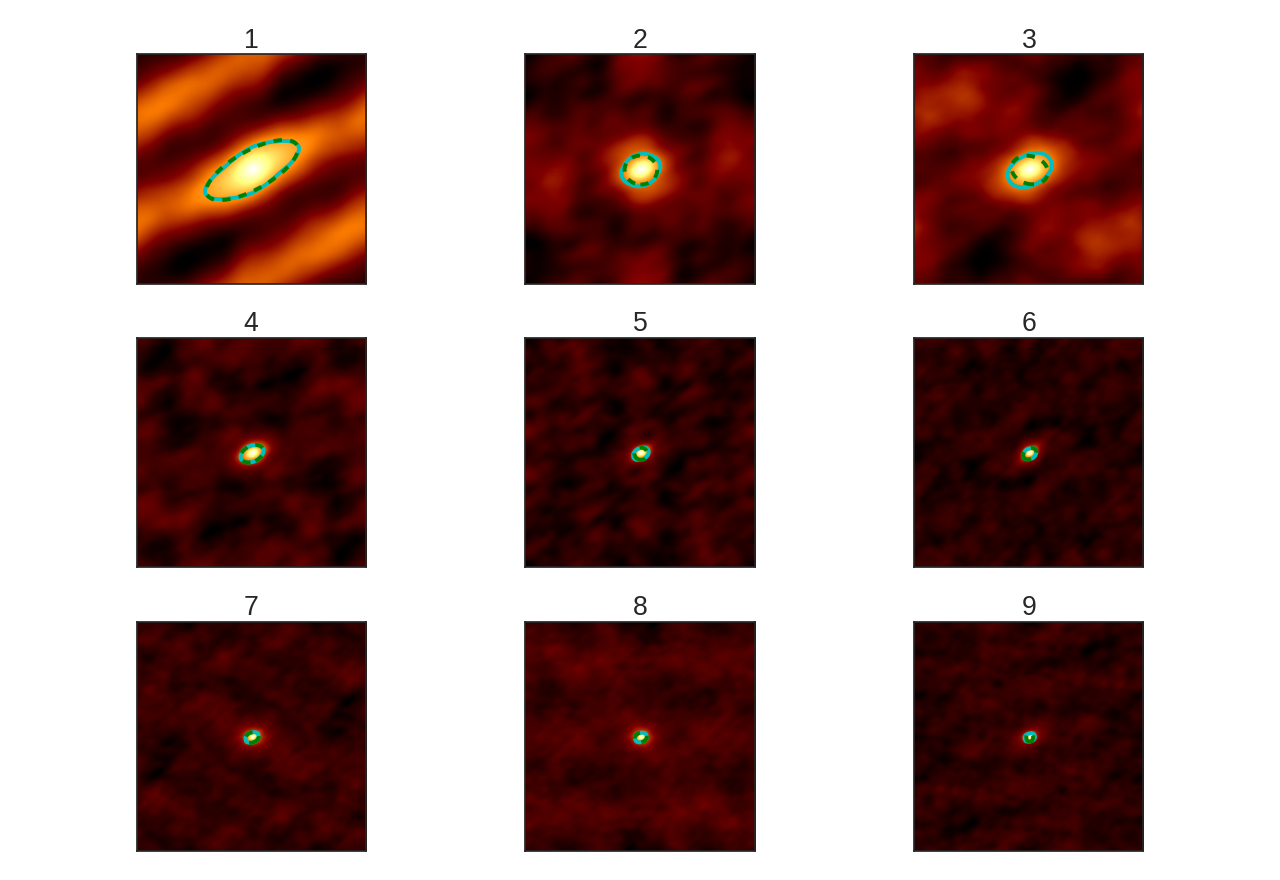
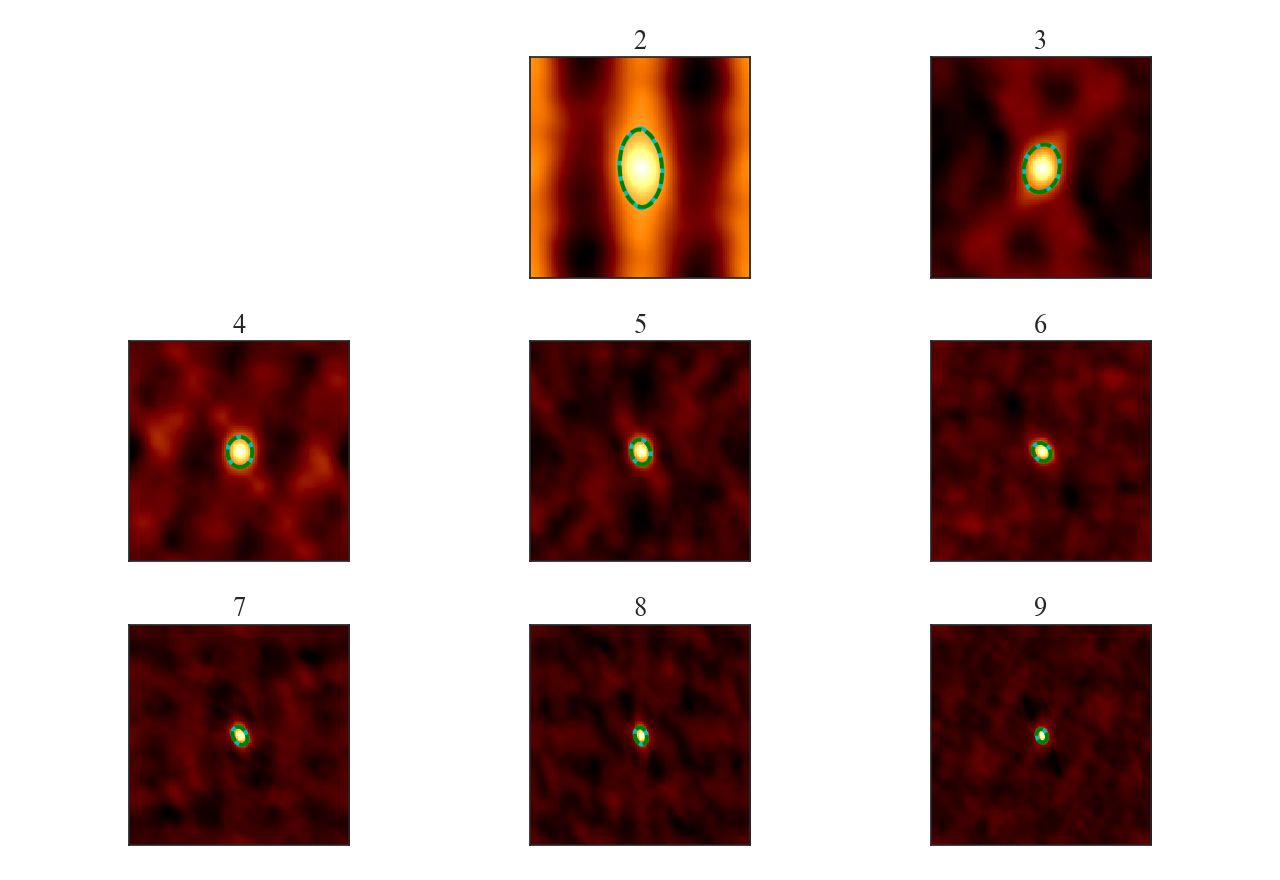
Updated PCA tutorial

diff --git a/docs/tutorials/statistics/pca_example.rst b/docs/tutorials/statistics/pca_example.rst
@@ -22,67 +22,115 @@ We need to import the PCA code, along with a few other common packages:
     >>> from turbustat.statistics import PCA
     >>> from astropy.io import fits
     >>> import astropy.units as u
+    >>> import matplotlib.pyplot as plt
 
 And we load in the data:
 
-    >>> cube = fits.open("Design4_21_0_0_flatrho_0021_13co.fits")[0]  # doctest: +SKIP
+    >>> cube = fits.open("Design4_flatrho_0021_00_radmc.fits")[0]  # doctest: +SKIP
 
 The `spectral-cube <http://spectral-cube.readthedocs.io/en/latest/>`_ package can also be used to load in data.
 
     >>> from spectral_cube import SpectralCube
-    >>> cube = SpectralCube.read("Design4_21_0_0_flatrho_0021_13co.fits")  # doctest: +SKIP
+    >>> cube = SpectralCube.read("Design4_flatrho_0021_00_radmc.fits")  # doctest: +SKIP
 
-The `~turbustat.statistics.PCA` class is first initialized, and the distance to the region (if desired) can be given along with an appropriate distance unit:
+The `~turbustat.statistics.PCA` class is first initialized, and the distance to the region (if desired) can be given:
 
     >>> pca = PCA(cube, distance=250. * u.pc)  # doctest: +SKIP
 
-If the distance is given, spatial widths are converted to the physical unit given in the distance (so parsecs here).
+If the distance is given, you will have the option to convert spatial widths to physical units. *Note that we're using simulated data and the distance of 250 pc has no special meaning.*
 
-The simplest way to run the entire process is through the `~turbustat.statistics.PCA.run` command:
+The simplest way to run the entire process is using the `~turbustat.statistics.PCA.run` command:
 
-    >>> pca.run(verbose=True, min_eigval=0.005)  # doctest: +SKIP
-    Proportion of Variance kept: 0.973266632968
-    Index: 0.50 (0.48, 0.53)
-    Gamma: 0.31 (0.27, 0.36)
-    Sonic length: 7.083e-02 (5.910e-02, 8.256e-02) pc at 10.0 K
+    >>> pca.run(verbose=True, min_eigval=1e-4, spatial_output_unit=u.pc, spectral_output_unit=u.m / u.s,
+                brunt_beamcorrect=False)  # doctest: +SKIP
+    Proportion of Variance kept: 0.999693451344
+    Index: 0.64 (0.62, 0.66)
+    Gamma: 0.55 (0.51, 0.58)
+    Sonic length: 1.446e-01 (1.358e-01, 1.534e-01) pc at 10.0 K
 
 .. image:: images/pca_design4_default.png
 
-This will use the default settings, and will show print a summary of the results with a plot of the covariance matrix (top left), the variance described by the principal components (bottom left) and the size-line width relation (right). This routine combines 4 steps, which we break down below.
+Note that we have specified the output units for the both the spectral and spatial units. By default, these would be kept in pixel units.
+The key properties are shown when `verbose=True`: a summary of the results with a plot of the covariance matrix (top left), the variance described by the principal components (bottom left) and the size-line width relation (right). The proportion of variance is the variance contained in the N eigenvalues kept. In this case, we consider all eigenvalues with values above 1e-4 to be important. `index` is the slope of the size-line width relation, and `gamma` is the the slope with a correction factor applied (see `~turbustat.statistics.PCA.gamma`). The sonic length is derived from the intercept of the size-line width relation using a default temperature of 10 K (see below on how to change this).
+
+Since this data is simulated, this example does not account for a finite beam size. If it did, however, we would want to deconvolve the spatial widths with the beam. To see this effect, let us assume these data have a 20" circular beam:
+
+    >>> pca.run(verbose=True, min_eigval=1e-4, spatial_output_unit=u.pc, spectral_output_unit=u.m / u.s,
+                brunt_beamcorrect=True, beam_fwhm=20 * u.arcsec)  # doctest: +SKIP
+    Proportion of Variance kept: 0.999693451344
+    Index: 0.56 (0.53, 0.58)
+    Gamma: 0.40 (0.36, 0.44)
+    Sonic length: 9.161e-02 (8.171e-02, 1.015e-01) pc at 10.0 K
+
+.. image:: images/pca_design4_beamcorr.png
+
+Since the correction is not linear, the slope changes with the beam correction. If the header of the data has the beam information defined, it will be automatically read in and `beam_fwhm` will not have to be given.
+
+Both of the PCA runs above do *not* subtract the mean of the data before creating the covariance matrix. Technically, this is not how PCA is defined (see Overview above) and the decomposition is not performed on a true covariance matrix. The justification used in :ref:`Brunt, C. & Heyer, M. 2002a <ref-brunt_heyer2002_i>` and :ref:`Brunt, C. & Heyer, M. 2002b <ref-brunt_heyer2002_ii>` is that the mean has a physical meaning in this case: it's the largest spatial scale across the map. If we *do* subtract the mean of, how does this affect the index?
+
+    >>> pca.run(verbose=True, min_eigval=1e-4, spatial_output_unit=u.pc, spectral_output_unit=u.m / u.s,
+                brunt_beamcorrect=True, beam_fwhm=20 * u.arcsec, mean_sub=True)  # doctest: +SKIP
+    Proportion of Variance kept: 0.999808532503
+    Index: 0.76 (0.71, 0.81)
+    Gamma: 0.68 (0.63, 0.73)
+    Sonic length: 9.121e-02 (8.437e-02, 9.805e-02) pc at 10.0 K
+
+.. image:: images/pca_design4_beamcorr.png
+
+The plot shows how the structure of the covariance matrix has changed. There remains a central peak, though it is smaller, and the positive structure around it is more elongated. The bar plot shows that the relative values of the eigenvalues have changed significantly; this intuitively makes sense as the covariance structure was changed. The index measured is significantly higher than the `0.56` measured above. If we compare the points on the size-line width relation, we see that the steeper relation results from the spectral width remaining the same as in the the non-mean subtracted case, while the spatial size is decreased.
+
+The default setting is to *not* subtract the mean in order to best reproduce the established Brunt & Heyer formalism. This comparison is included to demonstrate its effect and to highlight that, in not subtracting the mean, some of the assumptions used in PCA are violated. See the `PCA Wikipedia <https://en.wikipedia.org/wiki/Principal_component_analysis>`_ page for more information.
+
+The `~turbustat.statistics.PCA.run` command has several steps hidden within it. To demonstrate the whole process, the individual steps are broken down below. There are 4 major steps: decomposition, spatial fitting, spectral fitting, and fitting of the size-line width relation.
 
 First, the eigenvalue decomposition is performed using `~turbustat.statistics.PCA.compute_pca`:
 
-    >>> pca.compute_pca(mean_sub=False, n_eigs='auto', min_eigval=0.005, eigen_cut_method='value')  # doctest: +SKIP
+    >>> pca.compute_pca(mean_sub=False, n_eigs='auto', min_eigval=1e-4, eigen_cut_method='value')  # doctest: +SKIP
     >>> pca.n_eigs  # doctest: +SKIP
-    24
+    10
 
-`mean_sub` controls whether to subtract the channel means when calculating the covariance matrix. Formally, this is implied when calculating any covariance matrix, but is not done in the Brunt & Heyer works. `n_eigs` sets the number of important principal components (which will be used to fit the size-line width relation). This can be an integer, or the code will determine the number of important components based off of a threshold given in `min_eigval`. When `eigen_cut_method='value'`, `min_eigval` is the smallest eigenvalue to consider important. Since the variance is related to the level of variance due to noise in the data, it is practical to set this to a few times the noise variance. When `eigen_cut_method='proportion'`, `min_eigval` now corresponds to the total proportion of variance that is considered important:
+`mean_sub` controls whether to subtract the channel means when calculating the covariance matrix. Formally, this is implied when calculating any covariance matrix, but is not done in the Brunt & Heyer works (see above). `n_eigs` sets the number of important principal components (which will be used to fit the size-line width relation). This can be an integer, or the code will determine the number of important components based off of a threshold given in `min_eigval`. When `eigen_cut_method='value'`, `min_eigval` is the smallest eigenvalue to consider important. Since the variance is related to the level of variance due to noise in the data, it is practical to set this to a few times the noise variance. When `eigen_cut_method='proportion'`, `min_eigval` now corresponds to the total proportion of variance that is considered important:
 
     >>> pca.compute_pca(mean_sub=False, n_eigs='auto', min_eigval=0.99, eigen_cut_method='proportion')  # doctest: +SKIP
     >>> pca.n_eigs  # doctest: +SKIP
-    30
+    4
 
 This will keep the number of components that describe 99% of the variance in the data. The percentage of variance described by a principal component is its eigenvalue divided by the sum of all eigenvalues (the total variance in the data). All other components beyond these levels are due to irreducible noise. These noise components can be thought of as an N-dimensional sphere, where it becomes impossible to diminish the remaining variance as there is no preferred direction.
 
-Second, we calculate the spatial size scales from the autocorrelation of the eigenimages:
+Second, we calculate the spatial size scales from the autocorrelation of the eigenimages (reverting back to the PCs from `eigen_cut_method='value'`):
 
-    >>> pca.find_spatial_widths(method='contour', beam_fwhm=None, brunt_beamcorrect=True)  # doctest: +SKIP
+    >>> pca.compute_pca(mean_sub=False, n_eigs='auto', min_eigval=1e-4, eigen_cut_method='value')  # doctest: +SKIP
+    >>> pca.find_spatial_widths(method='contour', beam_fwhm=20 * u.arcsec, brunt_beamcorrect=True, output_unit=u.pc, diagnosticplots=True)  # doctest: +SKIP
 
 .. image:: images/pca_autocorrimgs_contourfit_Design4.png
 
-This will find the spatial widths by fitting an ellipse to the 1/e contour about the peak in the autocorrelation image, following the fitting technique described by Brunt & Heyer. The first 9 autocorrelation images are shown in the above image, where the cyan contours are the true 1/e contour, and the green dashed line is the elliptical fit.
+This will find the spatial widths by fitting an ellipse to the 1/e contour about the peak in the autocorrelation image, following the fitting technique described by Brunt & Heyer. The first 9 autocorrelation images are shown in the above image, where the cyan contours are the true 1/e contour, and the green dashed line is the elliptical fit. Note that the first autocorrelation image is not shown. This is because the fitting routine failed; if the 1/e level is not reached in the data, there is no contour to fit to. This means that the largest spatial scale in the data (which critically depends on the mean) is *larger* than the spatial size of the data. For a periodic-box simulation, which this example data is produced from, it is not surprising that this has occurred. **Note: If this issue is encountered in observational data (or anything without periodic boundaries), try padding the data cube in the spatial directions with zeros to simulate a larger map size.**
 
 `method` may also be set to `fit` to fit a 2D Gaussian to the peak, `interpolate` which estimates the 1/e from the peak using a fine grid about the peak region, and `xinterpolate` which first fits a 2D Gaussian to better determine the fine grid to use in interpolation. The default method is `contour`.
 
-When beam correction is applied (`brunt_beamcorrect`), the angular FWHM of the beam is needed. If the `BMAJ` keyword is set in the FITS header in `cube`, this will be read automatically (also if the `radio_beam <https://github.com/radio-astro-tools/radio_beam>`_ package is installed, a few other keywords will be recognized). Otherwise, this must be specified in `beam_fwhm`.
+When beam correction is applied (`brunt_beamcorrect`), the angular FWHM of the beam is needed. This is to deconvolve the spatial widths with the beam size. Note that all spatial scales that cannot be deconvolved from the beam will be set to `NaN`. If the `BMAJ` keyword is set in the FITS header in `cube`, this will be read automatically (also if the `radio_beam <https://github.com/radio-astro-tools/radio_beam>`_ package is installed, a few other keywords will be recognized). Otherwise, this must be specified in `beam_fwhm`. If the data do not have a beam size, `brunt_beamcorrect=False` will need to be specified in `~turbustat.statistics.PCA.find_spatial_widths` and `~turbustat.statistics.PCA.run`.
 
 Third, we find the spectral widths:
 
-    >>> pca.find_spectral_widths(method='walk-down')  # doctest: +SKIP
+    >>> pca.find_spectral_widths(method='walk-down', output_unit=u.m / u.s)  # doctest: +SKIP
+    >>> autocorr_spec = pca.autocorr_spec()  # doctest: +SKIP
+    >>> x = np.fft.rfftfreq(500) * 500 / 2.0  # doctest: +SKIP
+    >>> fig, axes = plt.subplots(3, 3, sharex=True, sharey=True)  # doctest: +SKIP
+    >>> for i, ax in zip(range(9), axes.ravel()):  # doctest: +SKIP
+    >>>     ax.plot(x, autocorr_spec[:251, i])  # doctest: +SKIP
+    >>>     ax.axhline(np.exp(-1), label='exp(-1)', color='r', linestyle='--')  # doctest: +SKIP
+    >>>     ax.axvline(pca.spectral_width[i].value / pca._spectral_size.value,  # doctest: +SKIP
+    >>>                label='Fitted Width',  # doctest: +SKIP
+    >>>                color='g', linestyle='-.')  # doctest: +SKIP
+    >>>     # ax.set_yticks([])  # doctest: +SKIP
+    >>>     ax.set_title("{}".format(i + 1))  # doctest: +SKIP
+    >>>     ax.set_xlim([0, 50])  # doctest: +SKIP
+    >>>     if i == 0:  # doctest: +SKIP
+    >>>         ax.legend()  # doctest: +SKIP
 
 .. image:: images/pca_autocorrspec_Design4.png
 
-The above image shows the first 100 components of the first 9 autocorrelation spectra (the data cube has 500 channels in total, but this is the region of interest). The local minima referred to in the next paragraph is the first minimum point in each of the spectra.
+The above image shows the 50 components of the first 9 autocorrelation spectra (the data cube has 500 channels in total, but this is the region of interest). The local minima referred to in the next paragraph is the first minimum point in each of the spectra.
 
 There are three methods available to estimate spectral widths of the autocorrelation spectra. `walk-down` starts from the peak and continues until the 1/e level is reached. The width is estimated by averaging the points before and after this level is reached. This is the method used by Brunt & Heyer. Otherwise, `method` may be set to `fit`, which fits a Gaussian to the data before the fits local minima occurs, and `interpolate`, which does the same, but through interpolating onto a finer grid. As shown in the above figure, the number of oscillations in the autocorrelation spectrum increases with the Nth principal component. The width of interest is determined from the first peak to the first minima.
 
@@ -105,12 +153,12 @@ And to run the MCMC:
 
 Additional arguments for setting the chain properties can be passed as well. See documentation for `~turbustat.statistics.fitting_utils.bayes_linear`. The verbose mode shows the fit results along with the data points.
 
-The interesting outputs from this analysis are esitmates of the slopes of the size-line width relation (:math:`\gamma`) and the sonic length:
+The interesting outputs from this analysis are estimates of the slopes of the size-line width relation (:math:`\gamma`) and the sonic length:
 
     >>> pca.gamma  # doctest: +SKIP
-    0.322
+    0.426
     >>> pca.sonic_length(T_k=10 * u.K, mu=1.36)  # doctest: +SKIP
-    (<Quantity 0.0732300348697346 pc>, <Quantity [ 0.04773552, 0.11210492] pc>)
+    (<Quantity 0.09733363769819545 pc>, <Quantity [ 0.06626515, 0.14449371] pc>)
 
 Since the sonic length depends on temperature and :math:`\mu`, this is a function and not a property like :math:`\gamma`. `PCA.sonic_length` also returns the 1-sigma error bounds. The error bounds in :math:`\gamma` can be accessed with `PCA.gamma_error_range`.
 
